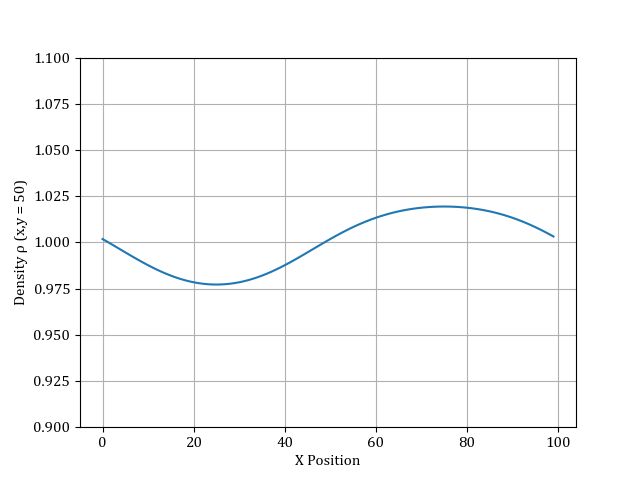
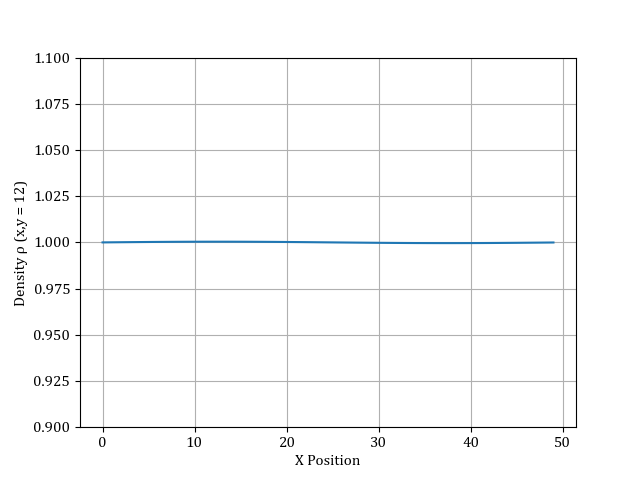
Plots modified

diff --git a/simulattions/shear_wave.py b/simulattions/shear_wave.py
@@ -75,8 +75,7 @@ def shear_wave_simulation(Nx: int, Ny: int, omega: float, eps: float, output_dir
         print(f'{step+1}//{steps}', end="\r")
         f = lbm.streaming(f)
         f, density, velocity = lbm.calculate_collision(f, omega)
-        # max_min_list.append(np.max(velocity[:, Nx//2, 1]))
-        if save_every is not None and (not (step % save_every) or step == steps - 1):
+        if step%save_every==0:
             density_animation.append(density) #if density flow is to be observed
             path = os.path.join(common_path, f'decay_{exp_type}')
             os.makedirs(path, exist_ok=True)
@@ -104,32 +103,32 @@ def shear_wave_simulation(Nx: int, Ny: int, omega: float, eps: float, output_dir
                 # 2. Save the sin flow of density at a point            
                 axes[0].cla()
                 axes[0].set_ylim([-eps + 1, eps + 1])
-                axes[0].plot(np.arange(Nx), density[Ny//2, :])
+                axes[0].plot(np.arange(Nx), density[Ny//4, :])
                 axes[0].set_xlabel('X Position')
-                axes[0].set_ylabel(f'Density ρ (x,y = {Ny//2})')
+                axes[0].set_ylabel(f'Density ρ (x,y = {Ny//4})')
                 save_path = os.path.join(path, f'density_decay_{step}.png')
                 axes[0].grid()  
                 figs[0].savefig(save_path,  pad_inches=1)
                 
 
             else:                
-            #     # 2. Save the sin flow of velocity at a point 
-                axes[0].cla()
-                axes[0].set_ylim([-eps, eps])
-                axes[0].plot(np.arange(Ny), velocity[:, Nx//2, 1])
-                axes[0].set_xlabel('Y Position')                    
-                axes[0].set_ylabel(f'Velocity u(x = {Nx//2},y)')                         
-                save_path = os.path.join(path, f'velocity_decay_{step}.png')
-                axes[0].grid()  
-                figs[0].savefig(save_path,  pad_inches=1)
+                # 2. Save the sin flow of velocity at a point 
                 
+                axes[0].set_ylim([-eps, eps])
+                axes[0].plot(np.arange(Ny), velocity[:, Nx//4, 1])
+                axes[0].set_xlabel('Y Position')                    
+                axes[0].set_ylabel(f'Velocity u(x = {Nx//4},y)')
+                axes[0].grid()  
+                
+        
+              
         
         """Calculate Theoretical Velocity"""
         if (exp_type == CV.velocity):
             kinematic_viscosity = 1/3*(1/omega-1/2)
             y_val = instant_theoretical_velocity(kinematic_viscosity)
-            y_val = y_val*(v_not[:, Nx//2, 1])
-            v_not[:, Nx//2, 1] = y_val
+            y_val = y_val*(v_not[:, Nx//4, 1])
+            v_not[:, Nx//4, 1] = y_val
             theoretical_velocity.append(y_val.max())   
 
                 
@@ -139,17 +138,19 @@ def shear_wave_simulation(Nx: int, Ny: int, omega: float, eps: float, output_dir
             max_min_list.append(np.min(velocity[:, :, 1]))
             x_value.append(step)
         else:            
-            den_or_vel.append(density[Ny//2,Nx//2]-1)
+            den_or_vel.append(density[Ny//4,Nx//4]-1)
             den_or_vel_list.append(np.max(density - 1))
             max_min_list.append(np.min(density - 1))
             x_value.append(step)
-            
+        
     """View animation of density flow"""
     if(exp_type == CV.density):
         animate(density_animation)
 
     """View Sinusoidal Decay over total time"""
     if exp_type == CV.velocity:
+        save_path = os.path.join(path, f'velocity_decay_{step}.png')
+        figs[0].savefig(save_path,  pad_inches=1)   
         x = np.arange(steps)
         axes[2].cla()
         axes[2].set_xlim([0,len(x)])
@@ -164,7 +165,7 @@ def shear_wave_simulation(Nx: int, Ny: int, omega: float, eps: float, output_dir
         axes[2].plot(x, theoretical_velocity, color = 'black',linestyle='dotted',  linewidth=3)   
         axes[2].fill_between(X_,Y_,Y_1, color = "blue", alpha=.2)           
         axes[2].set_xlabel('Time evolution')
-        axes[2].set_ylabel(f'Velocity at (y = {Ny//2})')
+        axes[2].set_ylabel(f'Velocity at (y = {Ny//4})')
         axes[2].legend(
             ['Simulated Maxima','Simulated Minima', 'Analytical ux(y=25)']) 
         axes[2].grid()       
@@ -179,7 +180,7 @@ def shear_wave_simulation(Nx: int, Ny: int, omega: float, eps: float, output_dir
         x_value_t = np.arange(len(den_or_vel))        
         axes[2].plot(x_value_t, den_or_vel, color='blue')       
         axes[2].set_xlabel(f'Timestep (ω = {omega})')
-        axes[2].set_ylabel(f'Density ρ (x = {Nx//2}, y = {Ny//2}')       
+        axes[2].set_ylabel(f'Density ρ (x = {Nx//4}, y = {Ny//4}')       
         
         save_path = os.path.join(path, f'omega_{omega}.png')
         axes[2].grid()  

diff --git a/init.py b/init.py
@@ -25,13 +25,13 @@ def experiment_type(type):
         # In that case, please comment other plots in shear wave decay
         omega_list = [0.2, 0.4, 0.6, 0.8, 1, 1.2, 1.4, 1.6, 1.8, 2]
         analytical_viscosity, simulated_viscosity = [], []
-        Nx = 100
-        Ny = 100
+        Nx = 50
+        Ny = 50
         omega = 1
         eps = 0.1
         output_dir = 'results'
-        save_every = 100
-        simulation_type = 'velocity'  # density/ velocity
+        save_every = 200
+        simulation_type = 'density'  # density/ velocity
         steps = 3000
         # Please turn off all the plots inside shear wave decay if kinematic_vs_analytical = True
         kinematic_vs_analytical = False
